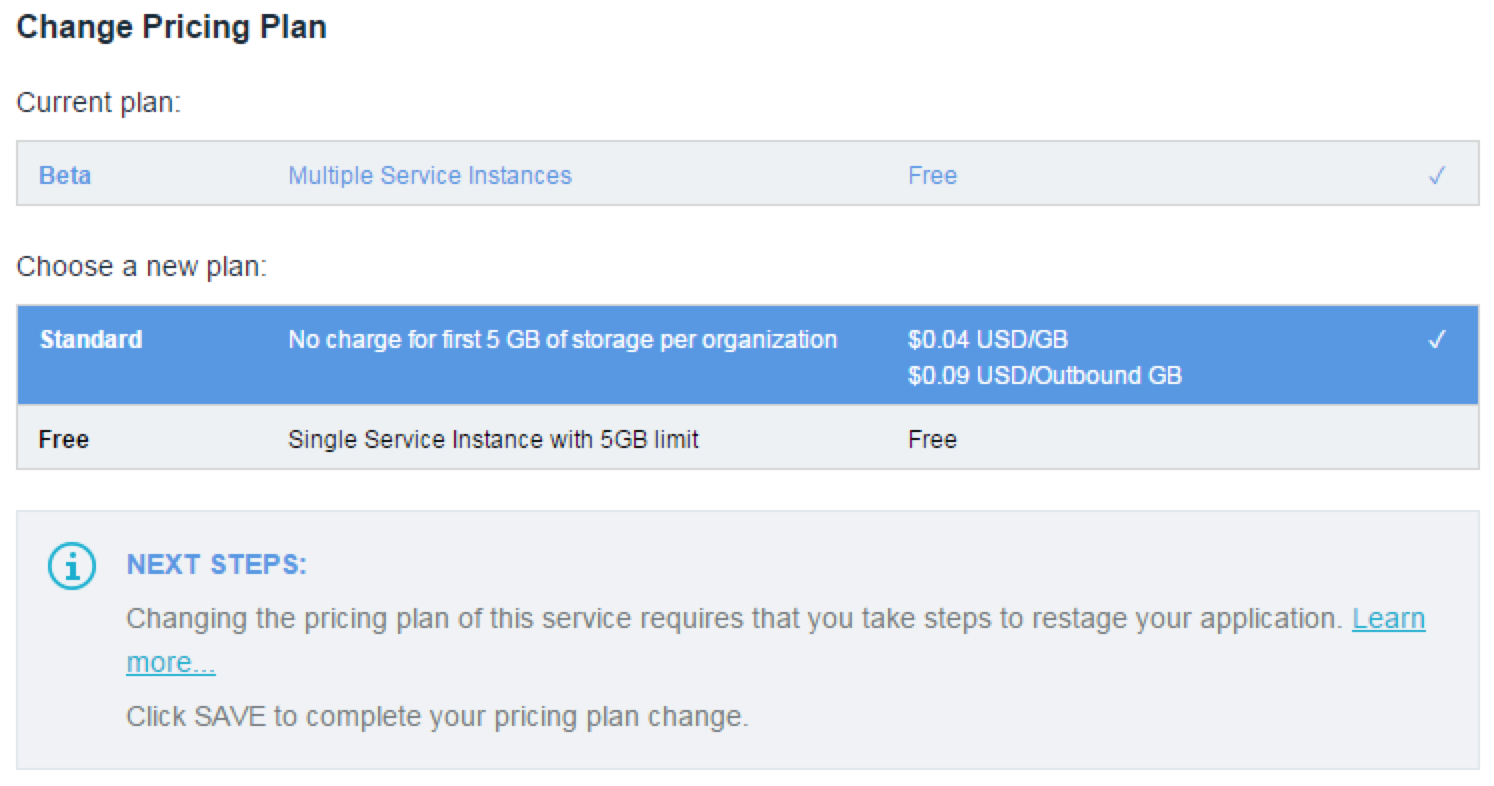
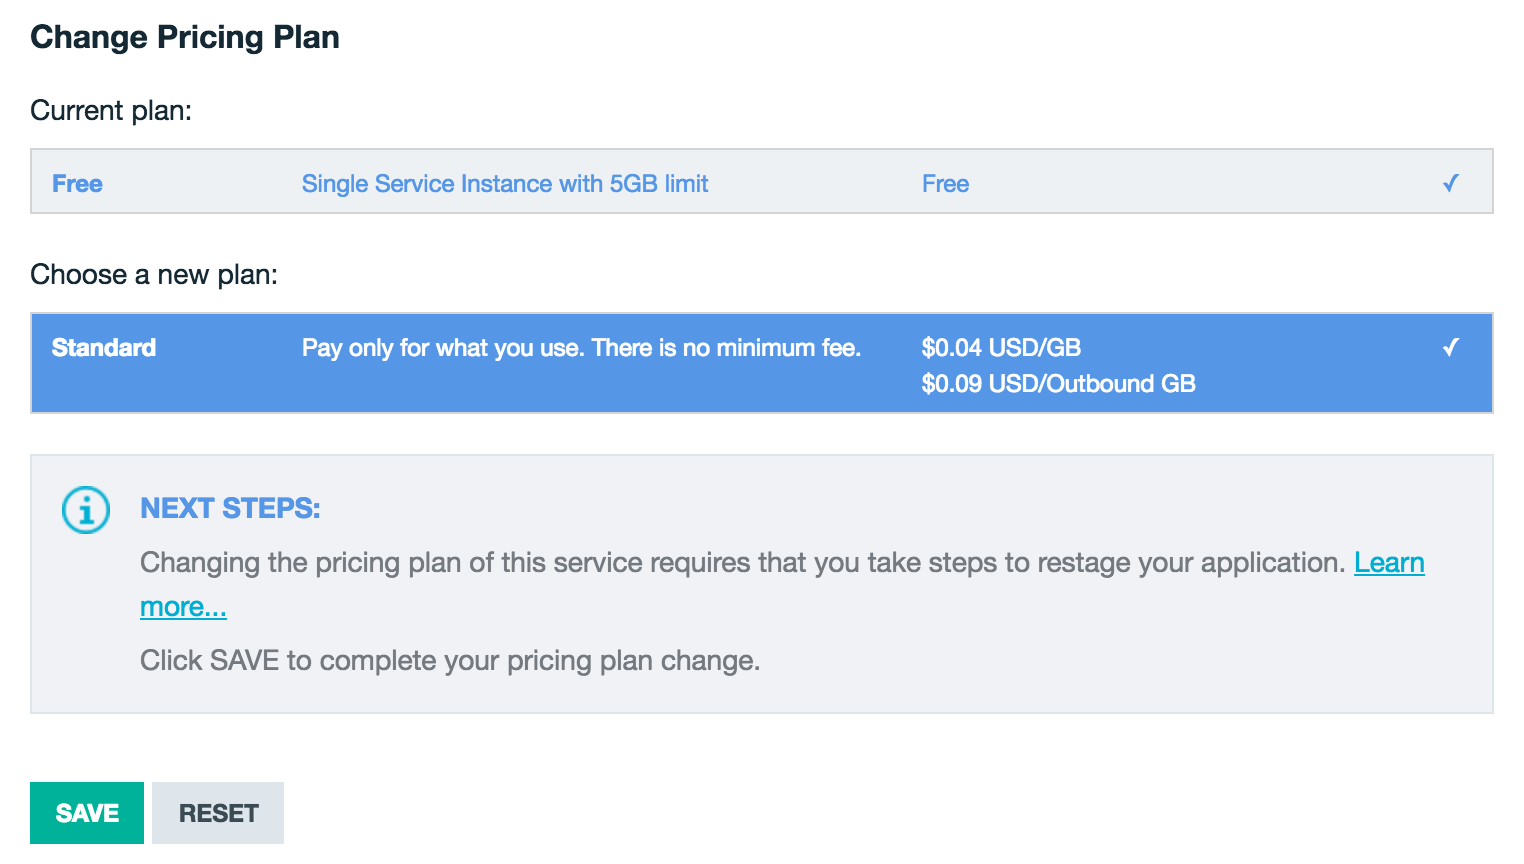
Update Beta Plan related info for Object Storage
Update Beta Plan related info for Object Storage according to Task
119448

diff --git a/services/ObjectStorage/objectstorage_faq.md b/services/ObjectStorage/objectstorage_faq.md
@@ -6,8 +6,7 @@
 ## How do prices vary depending on which plan I choose? {: #plan-price}
 Pricing varies depending on the chosen plan. For more pricing information, see the [IBM Bluemix Pricing Sheet](https://console.ng.bluemix.net/pricing/){: new_window} or use the [Calculator](https://console.ng.bluemix.net/?direct=classic/#/pricing/cloudOEPaneId=pricing&paneId=pricingSheet){: new_window} for more detailed estimates.
 
-## How do I change my plan from Beta to Standard? {: #changeplan}  
-The {{site.data.keyword.objectstorageshort}} Service Beta plan has been removed from the catalog after the General Availability of the {{site.data.keyword.Bluemix_notm}} {{site.data.keyword.objectstorageshort}} Service. Customer service instances are NOT migrated from Beta to Standard plan automatically. You will need to update your plan by following these steps:
+## How do I change my plan from Free to Standard? {: #changeplan}  
 
 1.	Click **Plan** from the left navigation bar in the {{site.data.keyword.objectstorageshort}} user interface.
 2.	Select **Standard** as the new plan and then click **Save**.
@@ -20,14 +19,13 @@ Your services instances and customer data are moved to the new plan.
 
 You can also change your payment plan by using the command line interface. For more information, see [How to change your plan](../../pricing/index.html#changing)  
 
-**Note:** Beta plan service instances cannot be moved to the Free plan. Any service instances not migrated will be disabled, and after 60 days, deleted. 
 
 ## What accounts and payment plans can I use for {{site.data.keyword.objectstorageshort}}? {: #account-payment}
 The {{site.data.keyword.objectstorageshort}} service comes with multiple plan options. As of our general availability release, two plans are currently offered, Standard and Free. The Standard plan is available only to {{site.data.keyword.Bluemix_notm}} Paid Accounts, either Pay-As-You-Go or Subscription, and to IBM internal users. The Standard plan includes an introductory 5 GB Free Credit Allowance on storage usage per account.
 
 Trial accounts that are still active are able to use the Free plan which allows only one instance to exist in a {{site.data.keyword.Bluemix_notm}} Organization. After the time on the {{site.data.keyword.Bluemix_notm}} trial expires, the associated {{site.data.keyword.objectstorageshort}} service instance will be disabled, meaning that the storage account cannot be accessed either by the {{site.data.keyword.Bluemix_notm}} user interface or command line. After a grace period of 30 days, your {{site.data.keyword.Bluemix_notm}} account will be purged, and all data deleted. To avoid data loss, it is recommended that you upgrade to a {{site.data.keyword.Bluemix_notm}} Paid Account as soon as possible. To upgrade your account, click on the user management menu in the upper-right corner, and select **Account**, which provides instructions about the upgrade process.
 
-Instances that are created on the Free plan can be upgraded to the Standard plan with the steps described in [How do I change my plan from Beta to Standard?](#changeplan). To upgrade to the Standard plan, the associated organization must be a {{site.data.keyword.Bluemix_notm}} Paid Account. Trial accounts with {{site.data.keyword.objectstorageshort}} instances cannot be upgraded to the Standard plan, and instances on the Standard plan cannot be downgraded to other plans.
+Instances that are created on the Free plan can be upgraded to the Standard plan with the steps described in [How do I change my plan from Free to Standard?](#changeplan). To upgrade to the Standard plan, the associated organization must be a {{site.data.keyword.Bluemix_notm}} Paid Account. Trial accounts with {{site.data.keyword.objectstorageshort}} instances cannot be upgraded to the Standard plan, and instances on the Standard plan cannot be downgraded to other plans.
 
 ## How will I be charged and billed for my use of {{site.data.keyword.objectstorageshort}}? {: #charge-bill}
 

diff --git a/services/ObjectStorage/index.md b/services/ObjectStorage/index.md
@@ -7,7 +7,6 @@
 
 **Note:** Provider side encryption is not provided. It is the responsibility of the client application to encrypt data before uploading.
 
-**Note:** The {{site.data.keyword.objectstorageshort}} Service Beta plan has been removed from the catalog after the General Availability of the {{site.data.keyword.Bluemix_notm}} {{site.data.keyword.objectstorageshort}} Service. After a grace period, service instances that use the Beta plan will be removed. [Update your pricing plan](objectstorage_faq.html#changeplan) to continue using the {{site.data.keyword.objectstorageshort}} service. 
 
 
 
